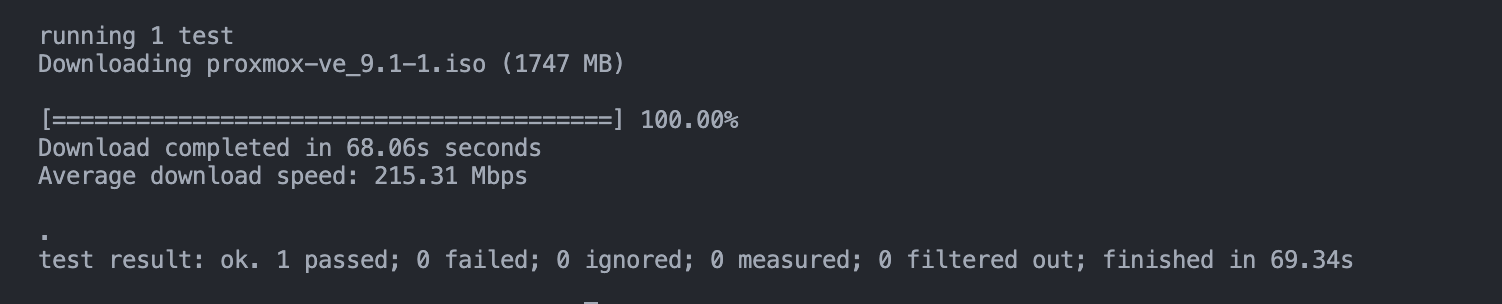
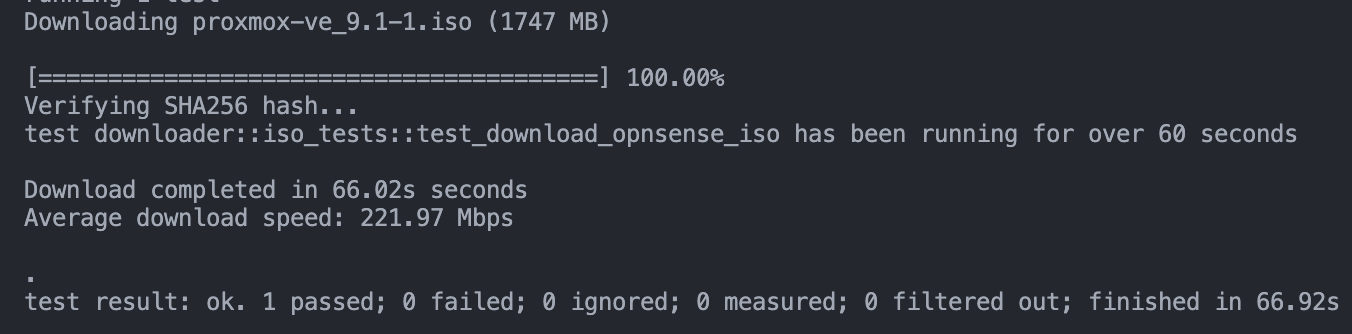
Updating tests
Accidentially removed needed test dependencies when cleaning up.

Changed region(s): [[0.0, 0.1776, 0.963, 0.6809], [0.0, 0.8289, 0.9941, 0.9474], [0.0, 0.0, 0.466, 0.148]]

diff --git a/src/downloader.rs b/src/downloader.rs
@@ -5,7 +5,7 @@ use std::{
     fs::{self, File},
     sync::{
         Arc,
-        atomic::{AtomicU64, Ordering},
+        atomic::{AtomicBool, AtomicU64, Ordering},
     },
 };
 use tempfile::NamedTempFile;
@@ -18,7 +18,7 @@ use tokio::{
 pub type DownloadResult = Result<(), DownloadError>;
 
 const _TEST_URLS: [&str; 2] = [
-    "https://raw.githubusercontent.com/iiTONELOC//refs/heads/main/LICENSE.md",
+    "https://raw.githubusercontent.com/iiTONELOC/0xdl/refs/heads/main/LICENSE.md",
     "https://raw.githubusercontent.com/iiTONELOC/0xdl/refs/heads/main/README.md",
 ];
 
@@ -54,6 +54,7 @@ pub async fn download_file(
     on_update: Option<Box<dyn Fn(f32) + Send + Sync + 'static>>,
     final_path: Option<&str>,
 ) -> Result<String, Box<dyn std::error::Error + Send + Sync>> {
+    let exited = Arc::new(AtomicBool::new(false));
     // HEAD request
     let size = get_file_size(url).await?;
 
@@ -70,6 +71,7 @@ pub async fn download_file(
     // progress callback loop
     if let Some(cb) = on_update {
         let p = progress.clone();
+        let e = exited.clone();
         tokio::spawn(async move {
             let mut tick = interval(Duration::from_millis(16));
             tick.set_missed_tick_behavior(MissedTickBehavior::Skip);
@@ -86,8 +88,8 @@ pub async fn download_file(
                     break;
                 }
             }
-
             cb(100.0);
+            e.store(true, Ordering::Relaxed);
         });
     }
 
@@ -101,6 +103,11 @@ pub async fn download_file(
 
     // SHA256 check
     if let Some(expected) = sha256 {
+        // wait for the progress callback to exit
+        while !exited.load(Ordering::Relaxed) {
+            tokio::time::sleep(Duration::from_millis(10)).await;
+        }
+
         // print out a message indicating that verification is in progress
         println!("\nVerifying SHA256 hash...");
         let ok = verify_file_sha256(&temp_path, &expected).await?;
@@ -220,8 +227,9 @@ pub async fn download_with_updates(
 }
 
 // ---------------------
-// TESTS
+// TESTS (FULL FILE WITH FIXES)
 // ---------------------
+
 #[cfg(feature = "tests")]
 #[cfg(test)]
 mod tests {
@@ -284,6 +292,8 @@ mod tests {
 #[cfg(test)]
 mod net_tests {
     use super::*;
+    use std::fs;
+    use std::path::Path;
 
     #[tokio::test]
     async fn test_download_file() {
@@ -353,7 +363,7 @@ mod net_tests {
         let result = download_with_updates(url, path, None, None).await;
 
         assert!(result.is_ok());
-        assert!(std::path::Path::new(path).exists());
+        assert!(Path::new(path).exists());
         let _ = std::fs::remove_file(path);
     }
 
@@ -361,12 +371,12 @@ mod net_tests {
     async fn test_real_download_with_hash() {
         let url = _TEST_URLS[1];
         let path = "test_download_with_hash.bin";
[2 lines of base64/hex data omitted]
 
         let result = download_with_updates(url, path, None, Some(sha256)).await;
 
         assert!(result.is_ok());
-        assert!(std::path::Path::new(path).exists());
+        assert!(Path::new(path).exists());
 
         let _ = std::fs::remove_file(path);
     }
@@ -380,7 +390,7 @@ mod net_tests {
         let result = download_with_updates(url, path, None, Some(bad_sha)).await;
 
         assert!(result.is_err());
-        assert!(!std::path::Path::new(path).exists());
+        assert!(!Path::new(path).exists());
     }
 }
 
@@ -388,6 +398,8 @@ mod net_tests {
 #[cfg(test)]
 mod iso_tests {
     use super::*;
+    use std::path::Path;
+
     const DL_URL: &str = "https://enterprise.proxmox.com/iso/proxmox-ve_9.1-1.iso";
[1 lines of base64/hex data omitted]
 
@@ -395,17 +407,19 @@ mod iso_tests {
     async fn test_download_opnsense_iso() {
         let path = "proxmox-ve_9.1-1.iso";
         let file_size = get_file_size(DL_URL).await.unwrap();
-        // print file name, and size in MB
+
         println!("Downloading {} ({} MB)\n", path, file_size / (1024 * 1024));
+
         let start = std::time::Instant::now();
         let result = download_with_updates(DL_URL, path, None, Some(DL_SHA256)).await;
         let duration = start.elapsed();
+
         println!("\nDownload completed in {:.2?} seconds", duration);
-        // print statistics about download speed in Mbps
         let speed_mbps = (file_size as f64 * 8.0) / (duration.as_secs_f64() * 1_000_000.0);
         println!("Average download speed: {:.2} Mbps\n", speed_mbps);
+
         assert!(result.is_ok());
-        assert!(std::path::Path::new(path).exists());
+        assert!(Path::new(path).exists());
         let _ = std::fs::remove_file(path);
     }
 }

diff --git a/README.md b/README.md
@@ -31,7 +31,7 @@ Or add it manually to `Cargo.toml`:
 
 ```toml
 [dependencies]
-oxdl = "0.1.2"
+oxdl = "0.1.3"
 ```
 
 ## Features
